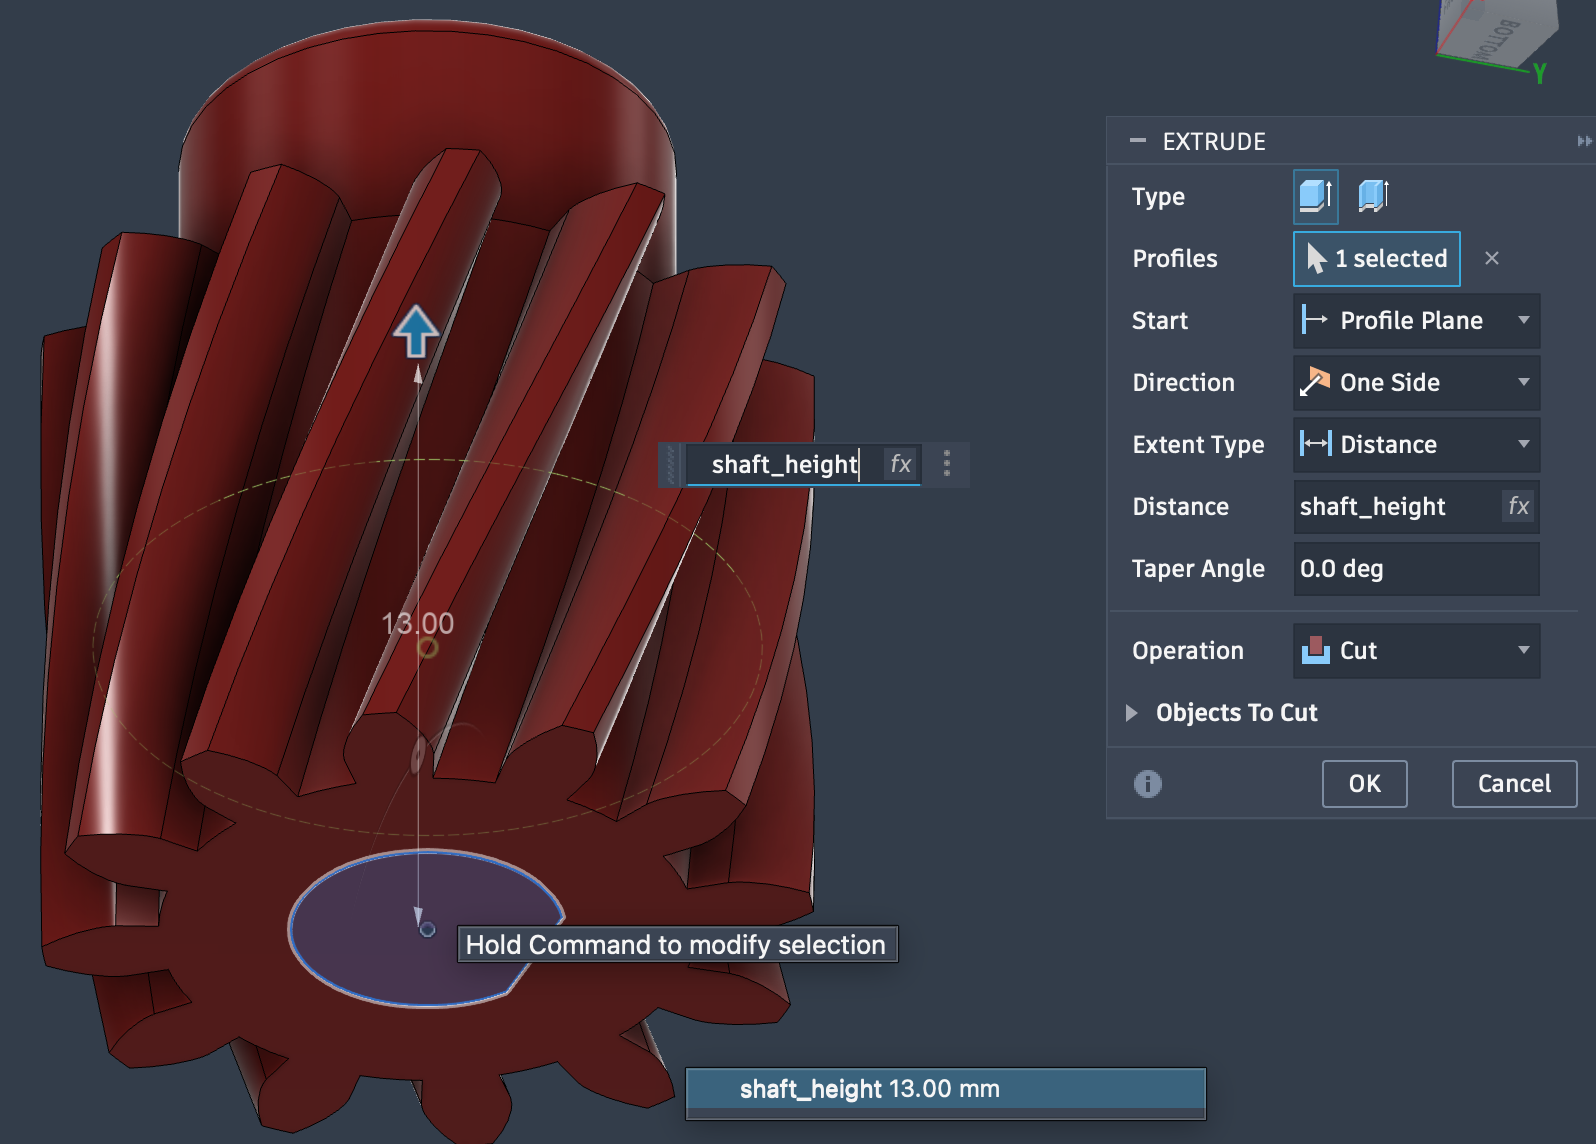
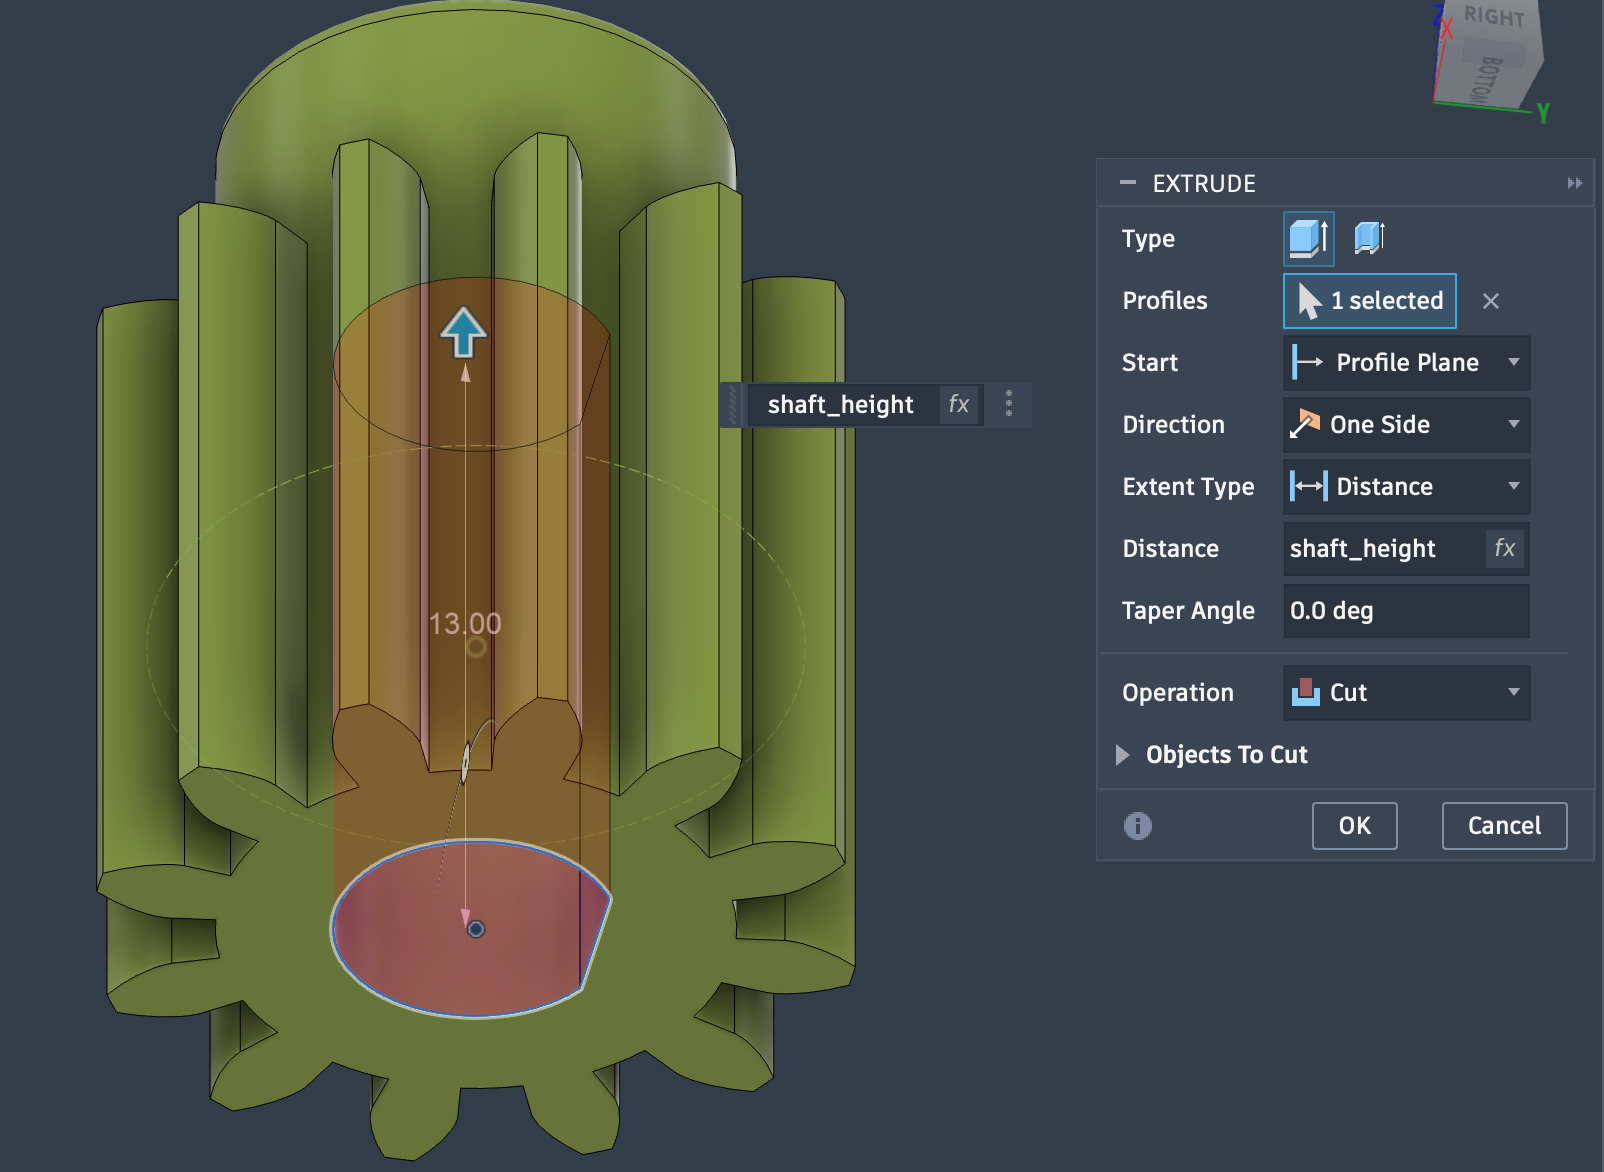
.

diff --git a/model_calculations.py b/model_calculations.py
@@ -32,7 +32,7 @@ PRESSURE_ANGLE_RADIANS = math.radians(PRESSURE_ANGLE_DEGREE)
 STAGES_COUNT = 2
 GEAR_BACKLASH_MM = 0.1
 ASSEMBLY_CLEARANCE_MM = 0.1
-HELIX_ANGLE_DEGREE = 20
+HELIX_ANGLE_DEGREE = 0
 HELIX_ANGLE_RAD = math.radians(HELIX_ANGLE_DEGREE)
 
 # -------------------------
@@ -630,13 +630,13 @@ if __name__ == "__main__":
     print(f"Linear Backlash at Load Arm ({LOAD_LEVER_ARM_MM}mm): {b_linear:5.2f} mm\n")
     
     
-    print(f"Module: {MODULE_MM:5.2f} mm")
-    print(f"Sun teeth count: {SUN_TEETH_COUNT:2.0f}")
-    print(f"Pressure angle: {PRESSURE_ANGLE_DEGREE:5.2f}°")
-    print(f"Helix angle: {HELIX_ANGLE_DEGREE:5.2f}°\n")
+    # print(f"Module: {MODULE_MM:5.2f} mm")
+    # print(f"Sun teeth count: {SUN_TEETH_COUNT:2.0f}")
+    # print(f"Pressure angle: {PRESSURE_ANGLE_DEGREE:5.2f}°")
+    # print(f"Helix angle: {HELIX_ANGLE_DEGREE:5.2f}°\n")
     
-    print(f"Angular Backlash: {b_deg:5.2f}°")
-    print(f"Ring Diameter: {RING_DIAMETER_MM:5.2f} mm")
+    # print(f"Angular Backlash: {b_deg:5.2f}°")
+    # print(f"Ring Diameter: {RING_DIAMETER_MM:5.2f} mm")
 
     print("-" * 50)
     print("3. MAXIMUM SAFE LOAD CAPACITY")

diff --git a/README.md b/README.md
@@ -197,15 +197,13 @@ Save
 
 ---
 
-Open `CarrierGenerator`, note the timeline is pulled 2 steps
+Open `CarrierGenerator`, note the timeline is pulled back 2 steps
 
 
 
 ![](assets/carrier_timeline.png)
 
-insert `Sun`
-
-Break link any of them
+Insert `Sun`
 
 Join `Sun`'s bottom with `Carrier`'s top at their centers
 
@@ -229,7 +227,8 @@ Insert `CarrierOutput`
 
 ![](assets/in%20same%20manner,%20create%20second%20stage%20using%20output%20component.png)
 
-Break link any of them, join `CarrierOutput` bottom at `CarrierGenerator`'s top at their centers
+
+Join `CarrierOutput` bottom at `CarrierGenerator`'s top at their centers
 
 Should end up with this
 
@@ -247,7 +246,7 @@ Combine all as new component, export it to project as `SecondStage`
 * MotorInput
 * SunSpacer
 
-❗ Make sure you print `SecondStage` at 45&deg; with 100% infill as it handles the most torque
+❗ Make sure you print `SecondStage` at 45&deg; with 100% infill as it takes the most stress
 
 ![](assets/carrier%2045.png)
 